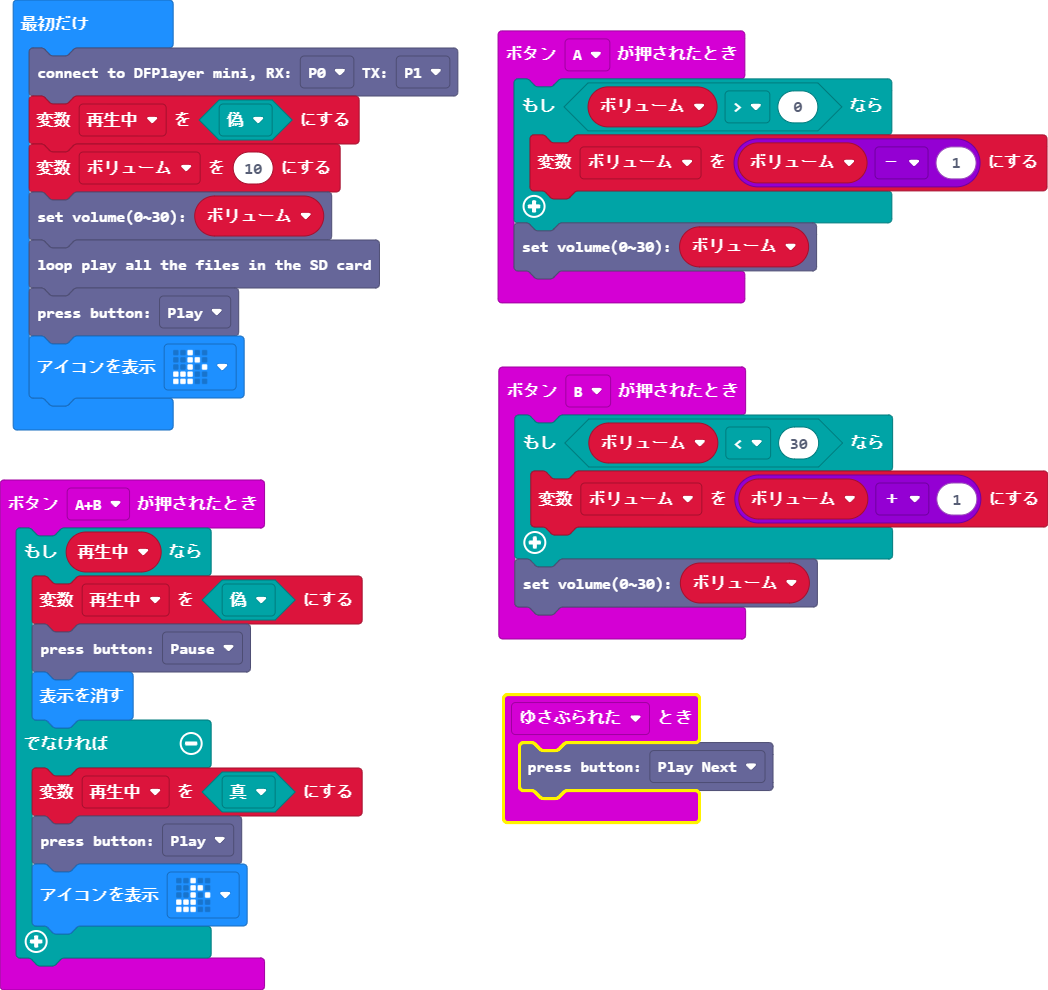
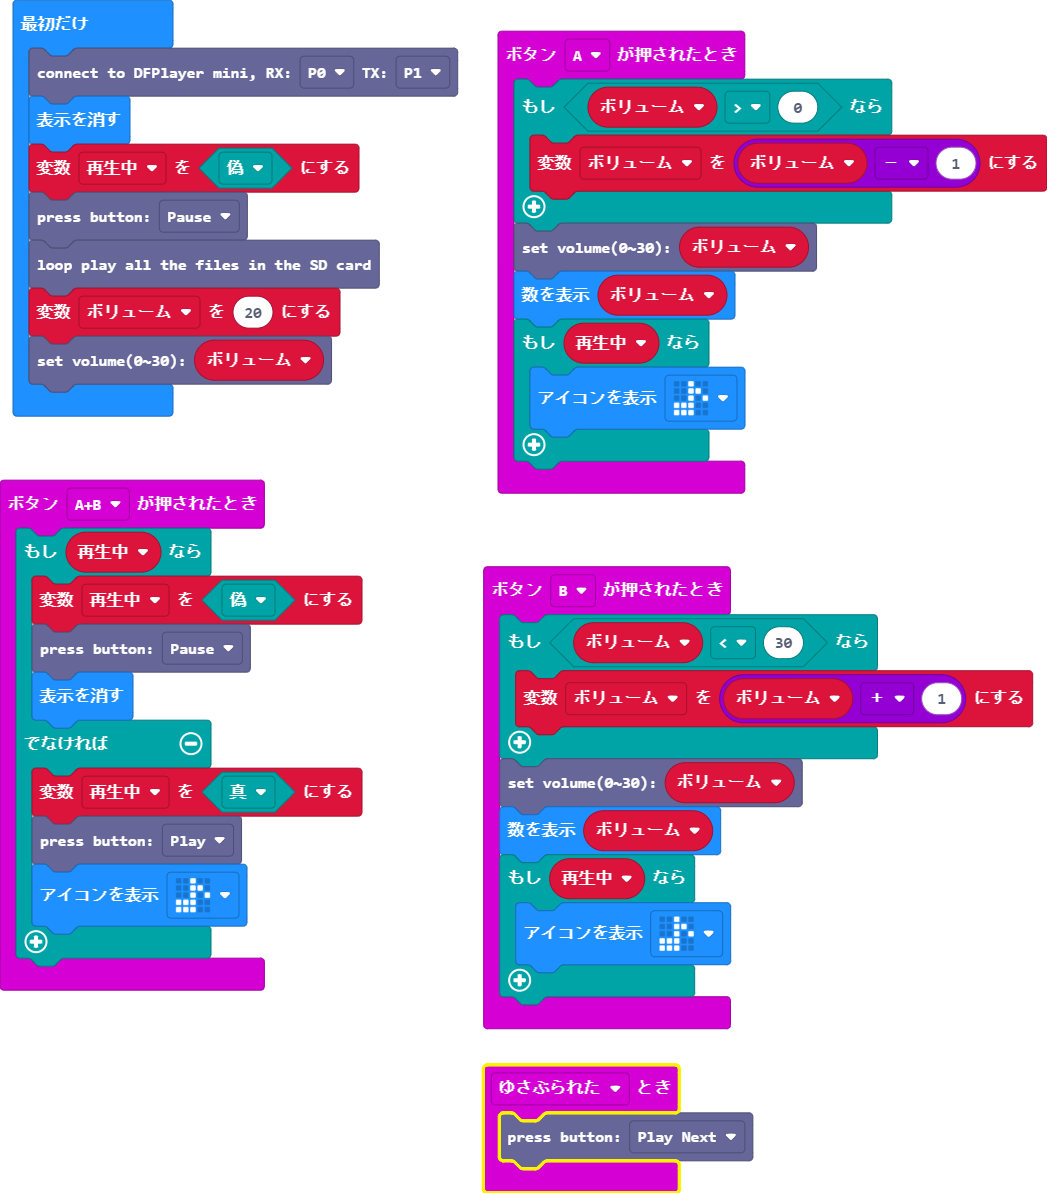
最初はPauseからスタートする。ボリューム操作で数を表示する。

diff --git a/main.ts b/main.ts
@@ -3,6 +3,10 @@ input.onButtonPressed(Button.A, function () {
         ボリューム = ボリューム - 1
     }
     dfplayermini.setVolume(ボリューム)
+    basic.showNumber(ボリューム)
+    if (再生中) {
+        basic.showIcon(IconNames.EigthNote)
+    }
 })
 input.onGesture(Gesture.Shake, function () {
     dfplayermini.press(dfplayermini.playType.PlayNext)
@@ -23,13 +27,17 @@ input.onButtonPressed(Button.B, function () {
         ボリューム = ボリューム + 1
     }
     dfplayermini.setVolume(ボリューム)
+    basic.showNumber(ボリューム)
+    if (再生中) {
+        basic.showIcon(IconNames.EigthNote)
+    }
 })
 let ボリューム = 0
 let 再生中 = false
 dfplayermini.connect(SerialPin.P0, SerialPin.P1)
+basic.clearScreen()
 再生中 = false
-ボリューム = 10
-dfplayermini.setVolume(ボリューム)
+dfplayermini.press(dfplayermini.playType.Pause)
 dfplayermini.playLoopAllFiles()
-dfplayermini.press(dfplayermini.playType.Play)
-basic.showIcon(IconNames.EigthNote)
+ボリューム = 20
+dfplayermini.setVolume(ボリューム)
